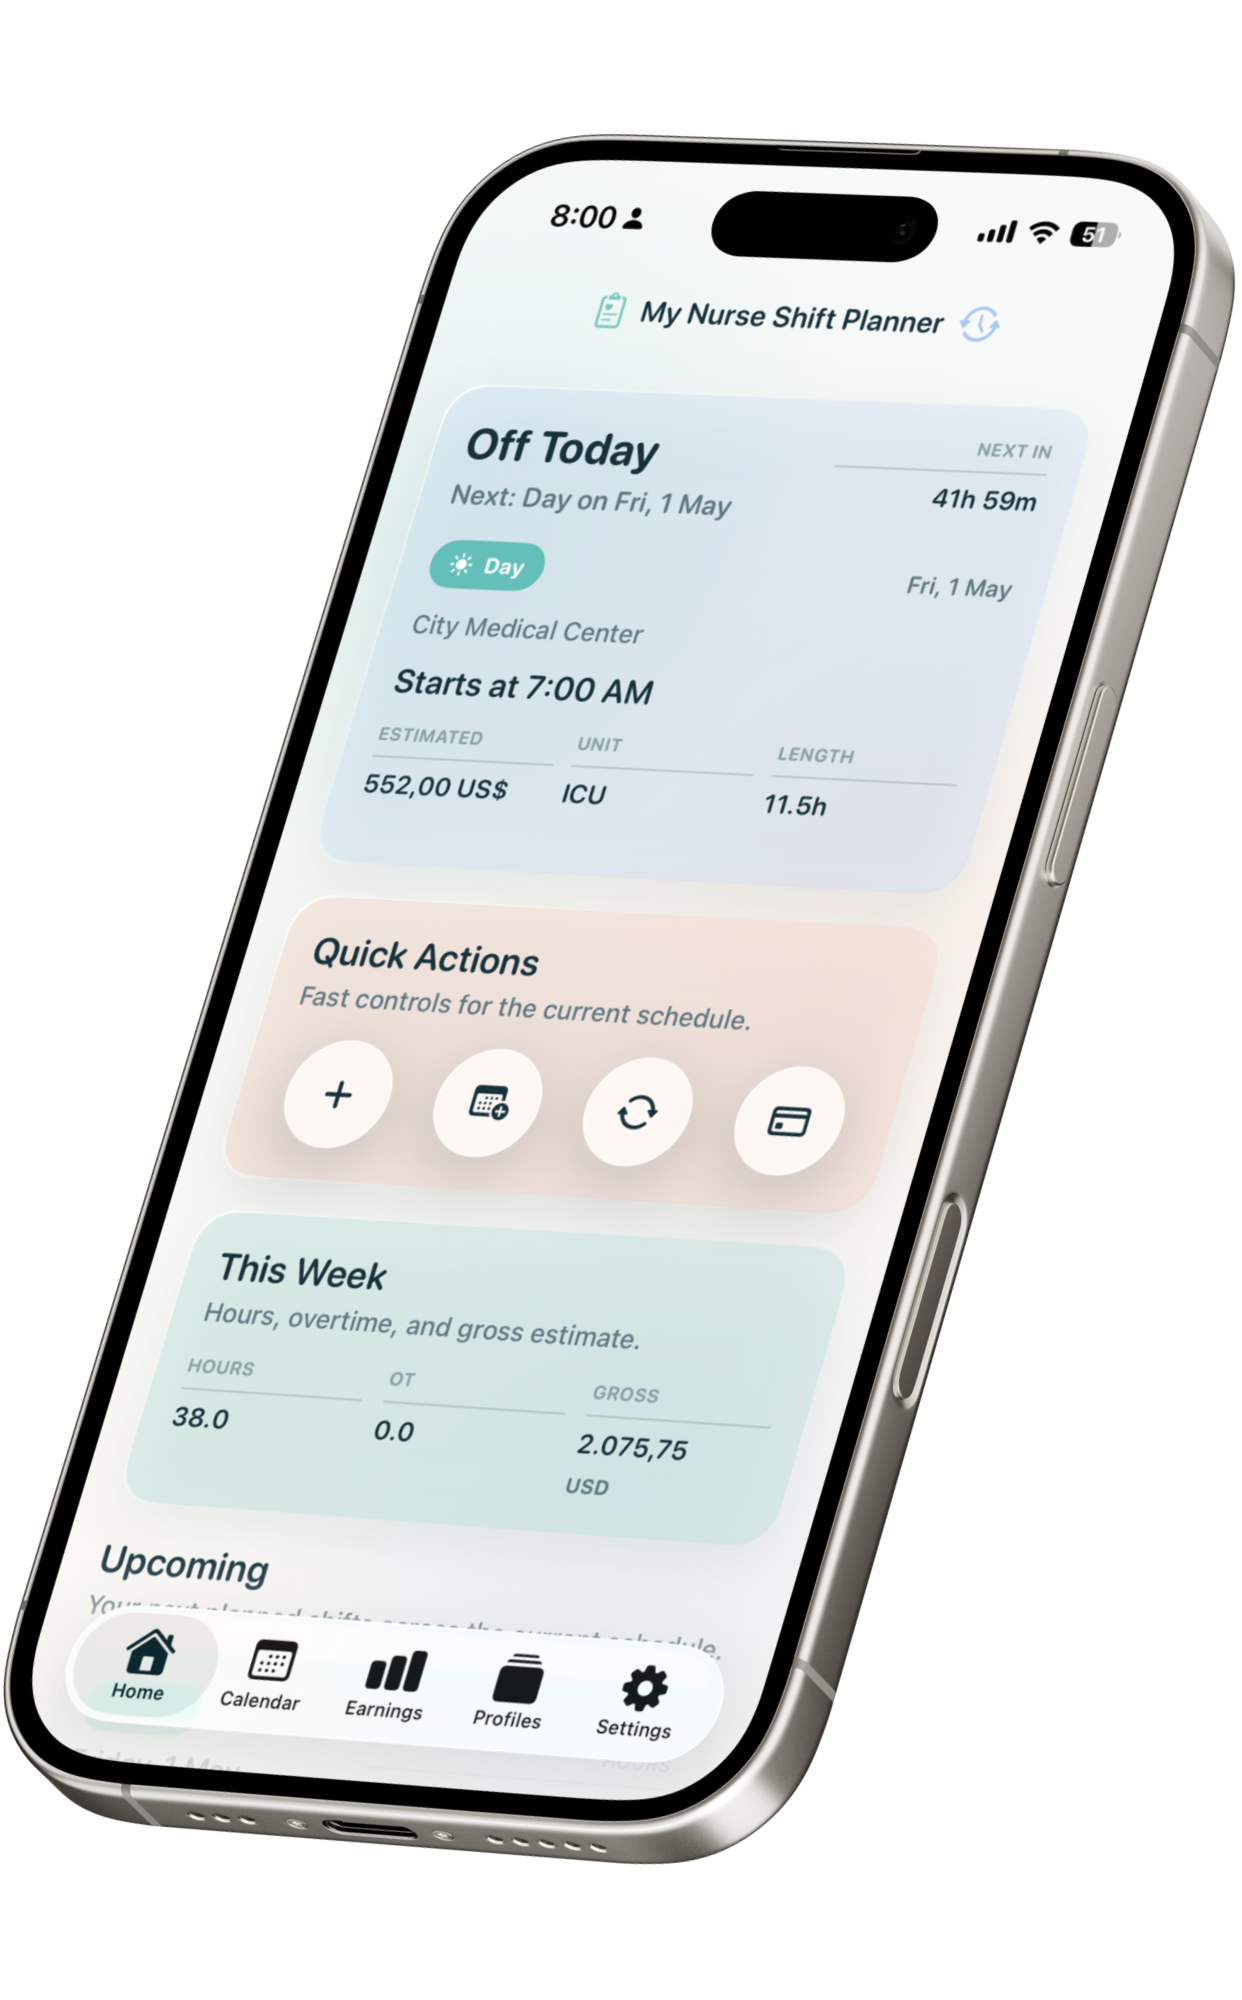
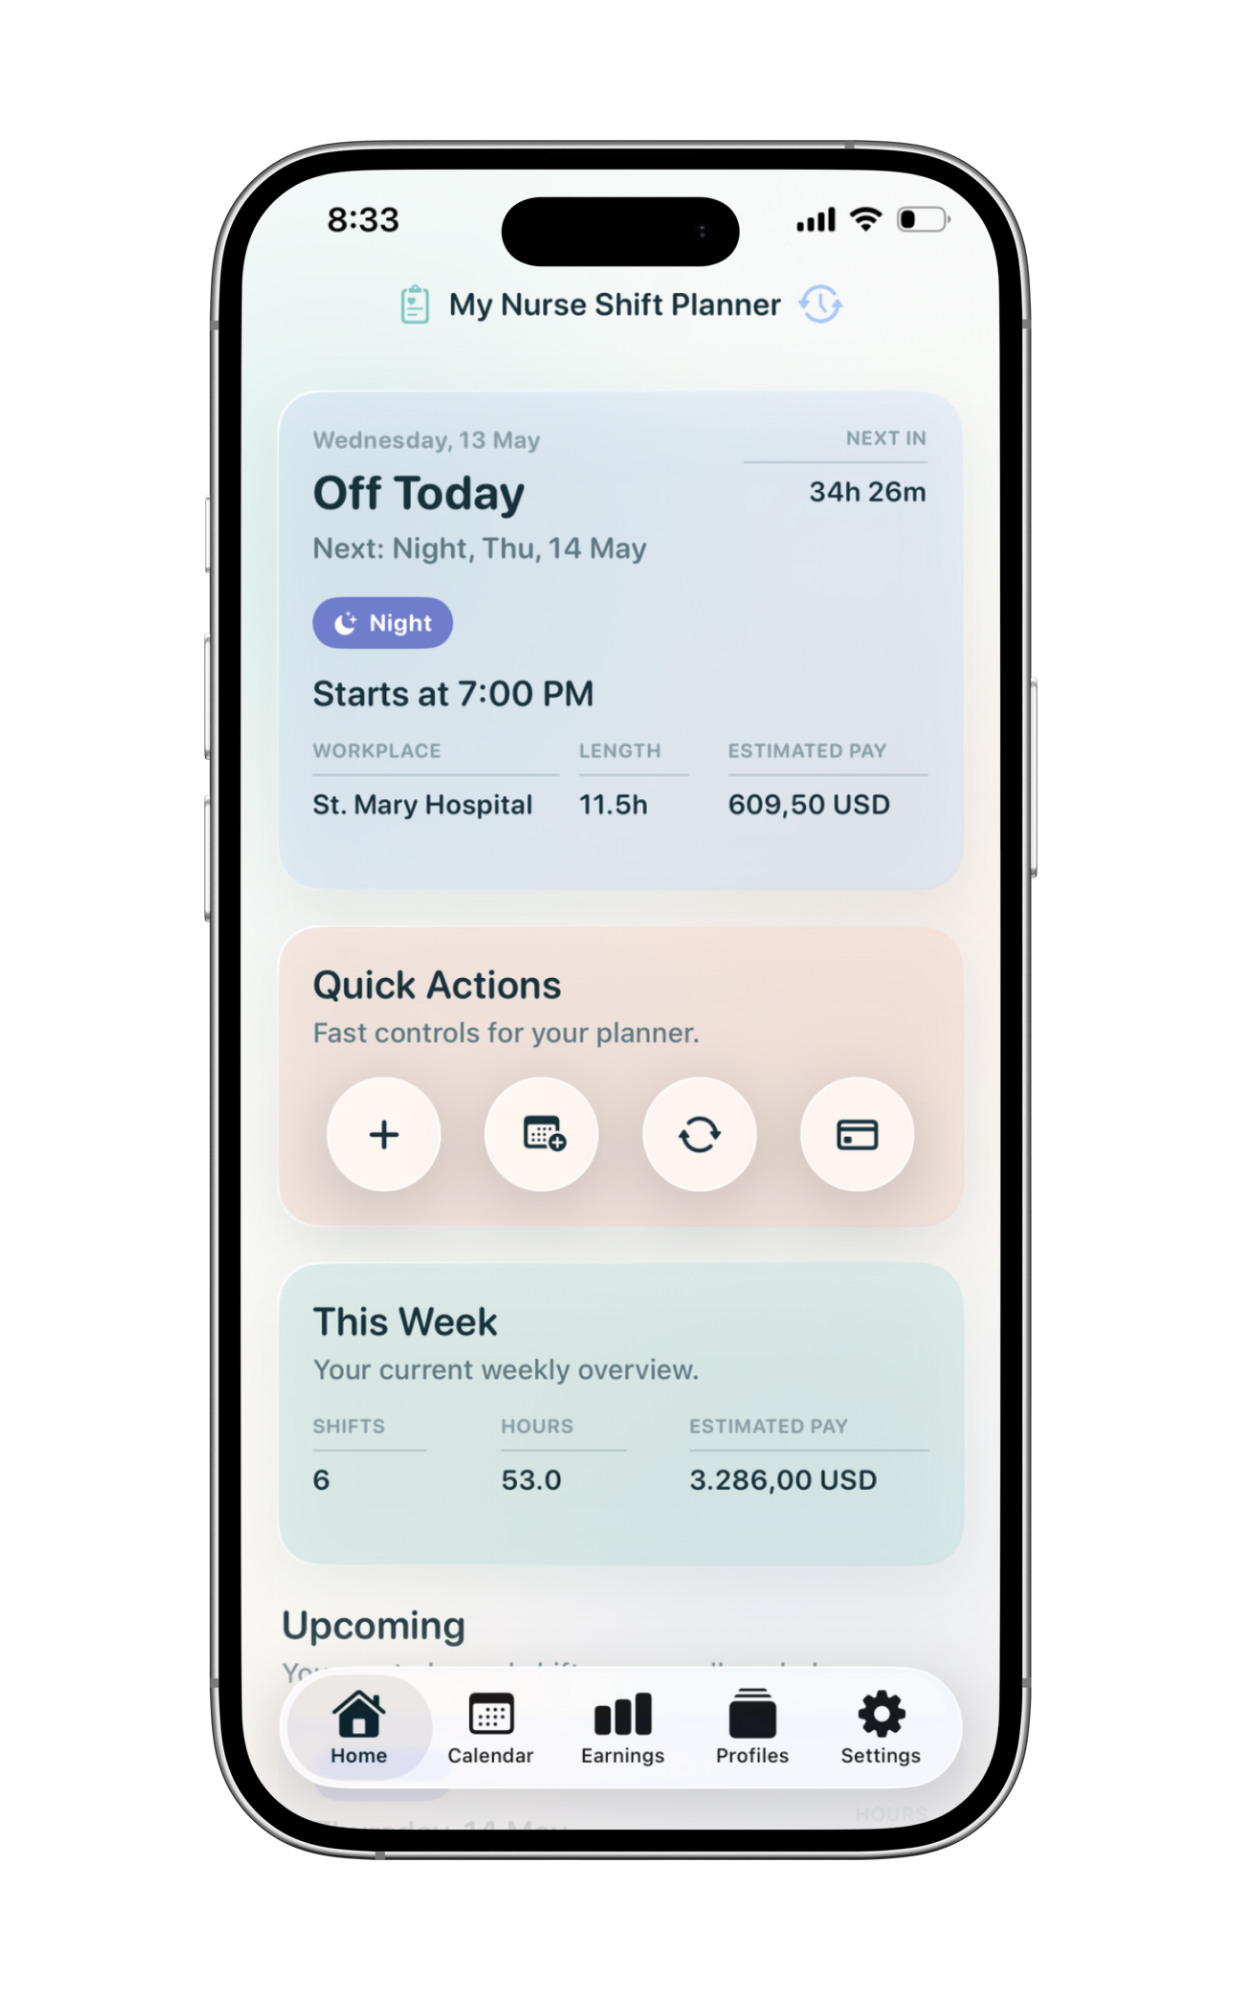
Rename nurse screenshots sequentially

Changed region(s): [[0.0, 0.062, 1.0, 0.93], [0.5813, 0.372, 0.7343, 0.403], [0.5507, 0.248, 0.5813, 0.279]]

diff --git a/nurse/index.html b/nurse/index.html
@@ -130,7 +130,7 @@
             </div>
             <div class="features-layout">
               <div class="features-visual">
-                <img src="../assets/images/3.png" alt="My Nurse Shift Planner feature preview">
+                <img src="../assets/images/2.png" alt="My Nurse Shift Planner feature preview">
               </div>
               <div class="feature-list">
                 <article class="glass-card feature-row">
@@ -210,7 +210,7 @@
                 </article>
               </div>
               <div class="features-visual">
-                <img src="../assets/images/4.png" alt="My Nurse Shift Planner pay and profile preview">
+                <img src="../assets/images/3.png" alt="My Nurse Shift Planner pay and profile preview">
               </div>
             </div>
           </div>
